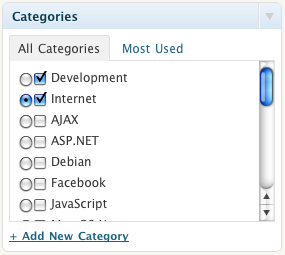
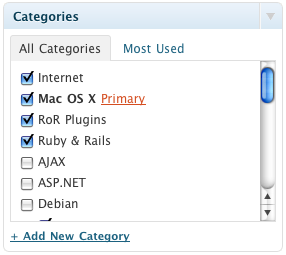
Client side script completely rewritten. New visual look and better usability
git-svn-id: http://svn.wp-plugins.org/scategory-permalink/trunk@140716 b8457f37-d9ea-0310-8a92-e5e31aec5664

diff --git a/scategory_permalink.js b/scategory_permalink.js
@@ -1,14 +1,60 @@
-/* sCategory Permalink 0.4.0 */
-function sCategoryPermalinkInit() {
-  if (typeof(sCategoryPermalinkCurrent) == 'undefined') sCategoryPermalinkCurrent = '';
+/* sCategory Permalink 0.6.0 */
+(function($) {
+  $.fn.sCategoryPermalink = function(options) {
+    $(this).append('<input type="hidden" name="scategory_permalink" id="scategory_permalink" />');
+    var obj = this;
 
-  var list = jQuery('#categorychecklist label input[type=checkbox]').each(function(idx) {
-    radio = ['<input type="radio" name="category_permalink" value="' + this.value + '"'];
-    if (sCategoryPermalinkCurrent == this.value) {
-      radio.push('checked="checked"');
+    return this.each(function() {
+      $(this).find('.tabs-panel label input[type=checkbox]').each(function() {
+        var label = $(this).parent('label');
+        var li = $(label).parent('li');
+        
+        var link = '&nbsp;<a href="#" class="scategory_link">Primary</a>';
+        
+        label.after(link);
+        $('.scategory_link', li).bind('click', onClick);
+        $('input', label).bind('change', onChange);
+        li.hover(onMouseOver, onMouseOut);
+
+        if (options.current == this.value) {
+          label.css('fontWeight', 'bold');
+          $('#scategory_permalink').val(options.current);
+        }
+      });
+    });
+    
+    function onClick(event) {
+      deselectAll();
+      
+      var current = $(this).prev('label').find('input').val();
+      
+      $('#in-popular-category-' + current + ',#in-category-' + current).each(function() {
+        $(this).parent('label').css('fontWeight', 'bold');
+        $(this).attr('checked', true);
+      });
+
+      $('#scategory_permalink').val(current);
+      event.preventDefault();
     }
-    radio.push('/>');
-
-    jQuery(this).before(radio.join(' '));
-  });
-}
+    
+    function onChange() {
+      var current = $('#scategory_permalink').val();
+      if (!this.checked && current == this.value) {
+        deselectAll();
+        $('#scategory_permalink').val('');
+      }
+    }
+    
+    function onMouseOver() {
+      $(this).find('a.scategory_link').show();
+    }
+    
+    function onMouseOut() {
+      $(this).find('a.scategory_link').hide();
+    }
+    
+    function deselectAll() {
+      $('ul li label', obj).css('fontWeight', '');
+    }
+  }
+})(jQuery);

diff --git a/scategory_permalink.php b/scategory_permalink.php
@@ -3,7 +3,7 @@
 Plugin Name: sCategory Permalink
 Plugin URI: http://kpumuk.info/projects/wordpress-plugins/scategory-permalink/
 Description: Plugin allows to select category which will be used to generate permalink on post edit page. Use custom permalink option <tt>%scategory%</tt> on <a href="options-permalink.php">Permalinks</a> options page.
-Version: 0.5.1
+Version: 0.6.0
 Author: Dmytro Shteflyuk
 Author URI: http://kpumuk.info/
 */
@@ -93,6 +93,7 @@ class sCategoryPermalink {
     if ($this->isOnThePostPage()) {
       $url = plugins_url(basename(dirname(__FILE__)) . '/scategory_permalink.js');
       echo "<script type=\"text/javascript\" src=\"$url\"></script>\n";
+      echo "<style type=\"text/css\">.scategory_link{vertical-align:middle;display:none}</script>\n";
     }
   }
 
@@ -100,17 +101,16 @@ class sCategoryPermalink {
     if ($this->isOnThePostPage()) {
       global $post;
 
-      $post_init = '';
+      $categoryID = '';
       if ($post->ID) {
-        $category_permalink = get_post_meta($post->ID, '_category_permalink', true);
-        $post_init = 'var sCategoryPermalinkCurrent="' . $category_permalink . '";';
+        $categoryID = get_post_meta($post->ID, '_category_permalink', true);
       }
-      echo '<script type="text/javascript">' , $post_init , 'sCategoryPermalinkInit();</script>', "\n";
+      echo "<script type=\"text/javascript\">jQuery('#categorydiv').sCategoryPermalink({current: '$categoryID'});</script>\n";
     }
   }
 
   function savePost($new_status, $old_status, $post) {
-    $category_permalink = $_POST['category_permalink'];
+    $category_permalink = $_POST['scategory_permalink'];
 
     if (isset($category_permalink)) {
       $cats = wp_get_post_categories($post->ID);
